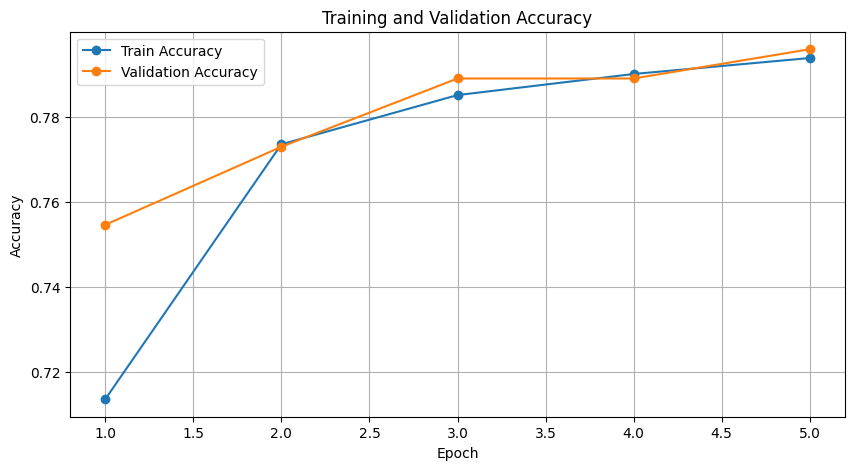
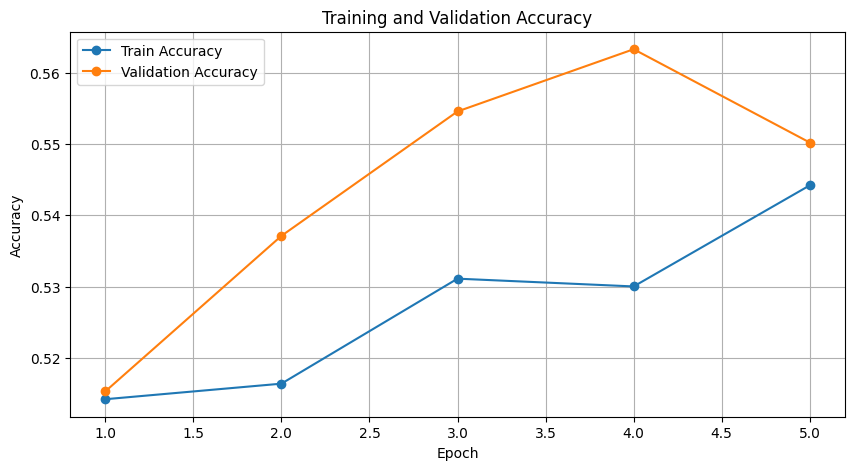
update

diff --git a/4-1.py b/4-1.py
@@ -7,13 +7,14 @@ import torch
 import torch.nn as nn
 from torch.utils.data import DataLoader
 from transformers import AutoTokenizer, AutoModelForSequenceClassification, AdamW
-from datasets import load_dataset, DatasetDict
+from datasets import load_dataset, DatasetDict, Dataset
 from sklearn.metrics import accuracy_score
 import numpy as np
 import matplotlib.pyplot as plt
 from sklearn.model_selection import train_test_split
 # PEFT for LoRA
 from peft import get_peft_model, LoraConfig, TaskType
+from tqdm import tqdm
 
 
 # ============== CLI ==============
@@ -33,10 +34,10 @@ def build_argparser():
     parser.add_argument("--seed", type=int, default=42, help="Random seed")
     parser.add_argument("--device", type=str, default="auto",
                         help="Device: 'cuda', 'cpu', or 'auto' to select automatically")
-    parser.add_argument("--log_every", type=int, default=100, help="Print log every N batches")
+    parser.add_argument("--log_every", type=int, default=10, help="Print log every N batches")
 
     # Data and saving
-    parser.add_argument("--max_length", type=int, default=128, help="Max sequence length for tokenization")
+    parser.add_argument("--max_length", type=int, default=512, help="Max sequence length for tokenization")
     parser.add_argument("--save_dir", type=str, default="./outputs",
                         help="Directory to save plots and best weights")
     parser.add_argument("--save_plot", type=str, default="acc.png",
@@ -120,41 +121,45 @@ def main():
 
     # Load data
     tokenizer = AutoTokenizer.from_pretrained(args.model_name)
-    dataset = load_dataset("sst2")
-    val_idx, test_idx = train_test_split(
-        list(range(len(dataset["validation"]))),
-        test_size=0.5,
-        random_state=42,
-        stratify=dataset["validation"]["label"]  
-    )
+    dataset = load_dataset("wics/strategy-qa")['test'].to_pandas()
 
-    new_val_dataset = dataset["validation"].select(val_idx)
-    new_test_dataset = dataset["validation"].select(test_idx)
 
-    print("New val size:", len(new_val_dataset))
-    print("New test size:", len(new_test_dataset))
+    train,val = train_test_split(dataset, test_size=0.2, random_state=42)
+    val,test = train_test_split(val, test_size=0.5, random_state=42)
+
+
 
     dataset = DatasetDict({
-    "train": dataset["train"],
-    "validation": new_val_dataset,
-    "test": new_test_dataset,
+    "train": Dataset.from_pandas(train),
+    "validation": Dataset.from_pandas(val),
+    "test": Dataset.from_pandas(test),
     }   )
+
     def tokenize_function(examples):
-        return tokenizer(
-            examples["sentence"],
-            padding="max_length",
-            truncation=True,
-            max_length=args.max_length,
-        )
+
+        prompts = [
+            f"Question: {q}\nFact: {f}\n Please answer the question based on the fact."
+            for q, f in zip(examples["question"], examples["facts"])
+        ]
+        labels = [0 if a == False else 1 for a in examples["answer"]]
+        data = {
+            "input_ids": tokenizer(prompts, padding="max_length", truncation=True, max_length=args.max_length)["input_ids"],
+            "attention_mask": tokenizer(prompts, padding="max_length", truncation=True, max_length=args.max_length)["attention_mask"],
+            "labels": labels,
+        }
+        return data
 
     tokenized_datasets = dataset.map(tokenize_function, batched=True)
-    tokenized_datasets = tokenized_datasets.remove_columns(["sentence",'idx'])
-    tokenized_datasets = tokenized_datasets.rename_column("label", "labels")
-    tokenized_datasets.set_format("torch")
+    tokenized_datasets.set_format(
+        type="torch",
+        columns=["input_ids", "attention_mask","labels"]  # 加 token_type_ids 如果有
+    )
+
 
     train_dataloader = DataLoader(tokenized_datasets["train"], shuffle=True, batch_size=args.batch_size)
     eval_dataloader = DataLoader(tokenized_datasets["validation"], batch_size=args.batch_size)
     test_dataloader = DataLoader(tokenized_datasets["test"], batch_size=args.batch_size)
+
     print("Data processing finished.")
 
     # Load model
@@ -208,8 +213,9 @@ def main():
         model.train()
         train_preds, train_labels = [], []
 
-        for i, batch in enumerate(train_dataloader):
+        for i, batch in enumerate(tqdm(train_dataloader)):
             batch = {k: v.to(device) for k, v in batch.items()}
+
             labels = batch["labels"]
 
             outputs = model(input_ids=batch["input_ids"], attention_mask=batch["attention_mask"])

diff --git a/5-1.py b/5-1.py
@@ -1,0 +1,60 @@
+import pickle
+import json
+import faiss
+import numpy as np
+from collections import defaultdict
+
+# ---------------------
+# 1. 加载 embeddings
+# ---------------------
+
+with open("scifact_evidence_embeddings.pkl", "rb") as f:
+    abstract_embeddings = pickle.load(f)  # {doc_id: np.array}
+
+with open("scifact_claim_embeddings.pkl", "rb") as f:
+    claim_embeddings = pickle.load(f)  # {claim_id: np.array}
+
+# with open("ground_truth.json", "r") as f:
+#     ground_truth = json.load(f)  # {claim_id: correct_doc_id}
+
+
+
+# ---------------------
+# 2. 构建 FAISS Index
+# ---------------------
+
+doc_ids = list(abstract_embeddings.keys())
+doc_vectors = np.stack([abstract_embeddings[doc_id] for doc_id in doc_ids]).astype("float32")
+
+faiss.normalize_L2(doc_vectors)  # cosine similarity
+dimension = doc_vectors.shape[1]
+index = faiss.IndexFlatIP(dimension)
+index.add(doc_vectors)
+
+# ---------------------
+# 3. 查询并评估
+# ---------------------
+
+total = 0
+correct = 0
+
+for claim_id, query_vec in claim_embeddings.items():
+    query = query_vec.astype("float32").reshape(1, -1)
+    faiss.normalize_L2(query)
+    D, I = index.search(query, k=1)
+    retrieved_doc_id = doc_ids[I[0][0]]
+
+    gt_doc_id = ground_truth.get(claim_id)
+    if gt_doc_id is not None:
+        total += 1
+        if retrieved_doc_id == gt_doc_id:
+            correct += 1
+
+recall_at_1 = correct / total if total > 0 else 0.0
+
+# ---------------------
+# 4. 打印结果
+# ---------------------
+
+print(f"Recall@1: {recall_at_1:.4f}")
+
